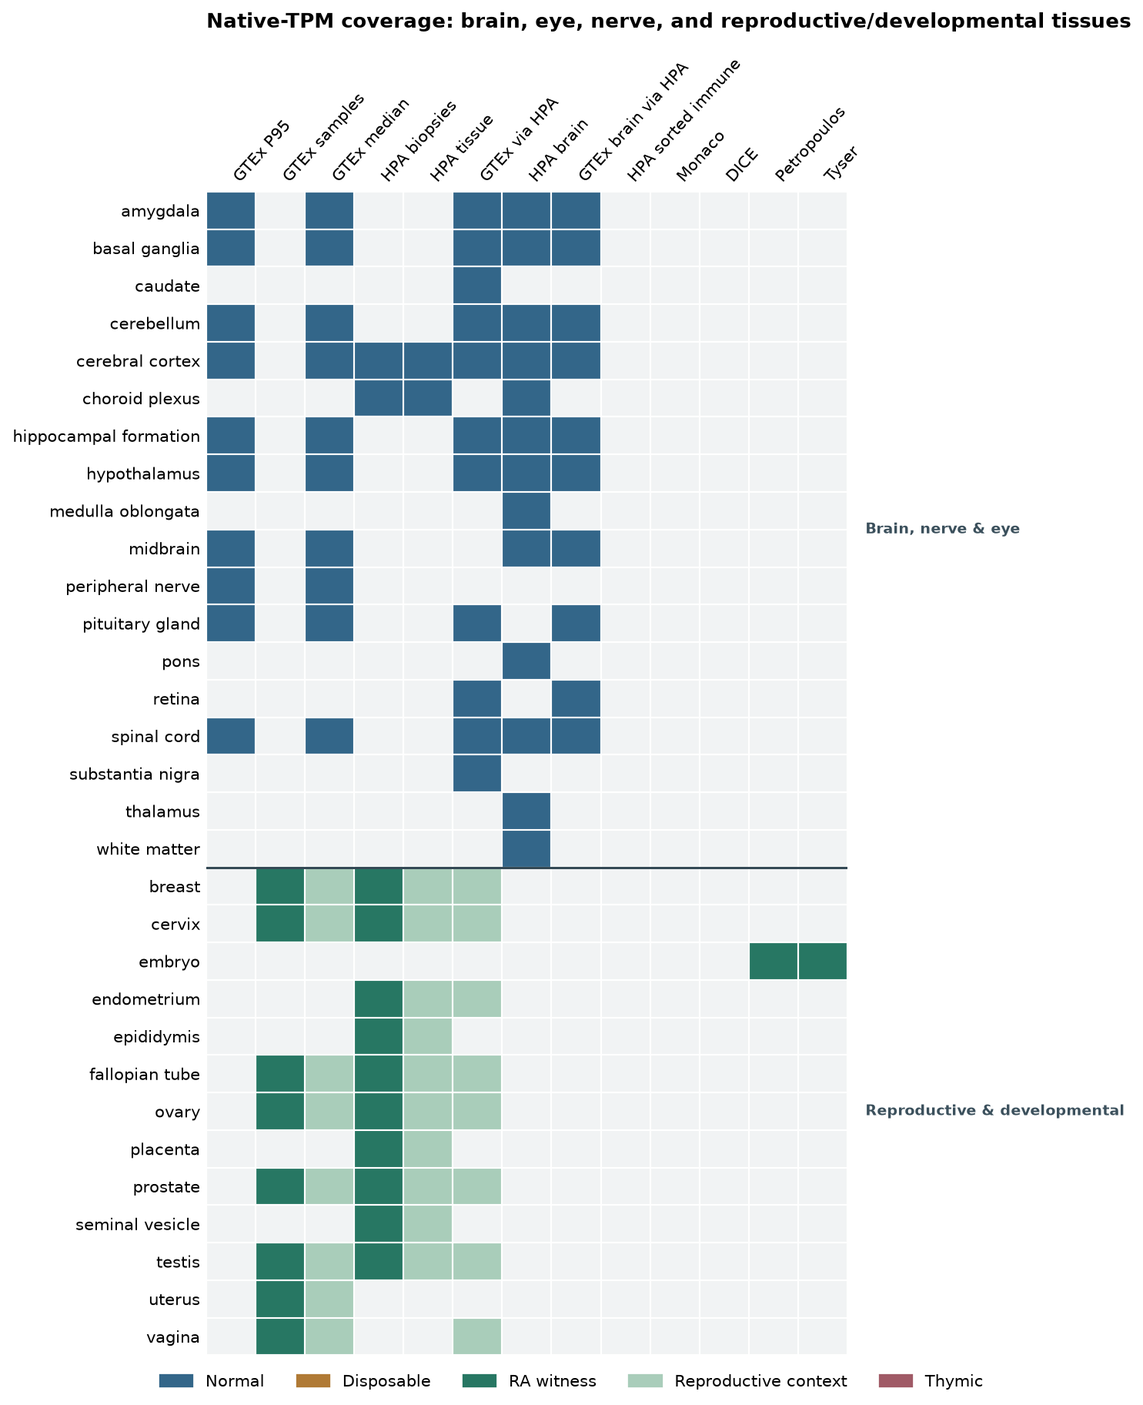
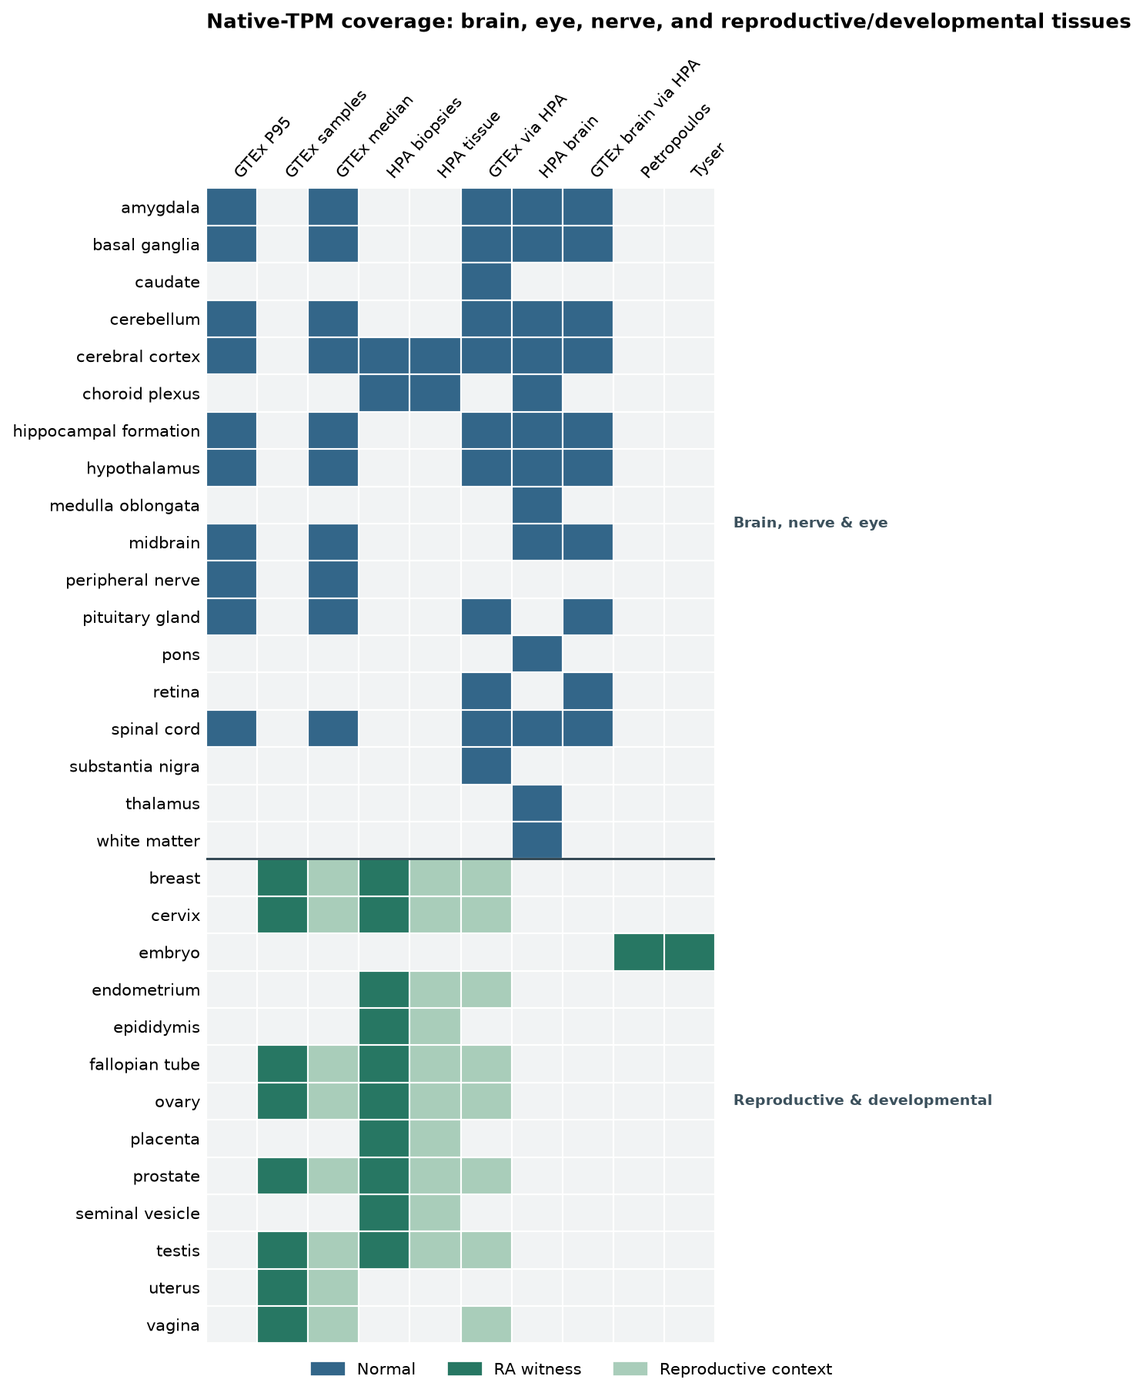
Tighten figure cropping, label enrichment y-axes, spell out Normal N/Disposable D, and drop empty split-heatmap columns

diff --git a/scripts/render_curation_summary.py b/scripts/render_curation_summary.py
@@ -617,7 +617,9 @@ def distributions(data, path):
     plt.close(fig)
 
 
-def _draw_enrichment_panel(ax, data, column, membership, title, color, callouts, floor=0.05):
+def _draw_enrichment_panel(
+    ax, data, column, membership, title, ylabel, color, callouts, floor=0.05
+):
     """Draw a single enrichment scatter plot against the shared non-thymic baseline."""
     d = data[data[column].notna()].copy()
     x = d[["normal_reference_tpm", "disposable_max_tpm"]].max(axis=1).clip(lower=floor)
@@ -680,8 +682,11 @@ def _draw_enrichment_panel(ax, data, column, membership, title, color, callouts,
     ax.set_yscale("log")
     ax.grid(True, which="major", color="#dce3e7", linewidth=0.6, alpha=0.7)
     ax.set_axisbelow(True)
-    ax.set_xlabel("Highest non-thymic, non-reproductive reference max(N, D) (TPM)", fontsize=10)
-    ax.set_ylabel("Highest supported expression (TPM)", fontsize=10)
+    ax.set_xlabel(
+        "Highest non-thymic, non-reproductive reference max(Normal N, Disposable D) (TPM)",
+        fontsize=9.8,
+    )
+    ax.set_ylabel(ylabel, fontsize=10)
     ax.set_title(
         f"{title}: {len(d):,} measured proteins",
         loc="left",
@@ -724,6 +729,7 @@ def tumor_normal(data, path):
             "tumor_max_tpm",
             "is_cancer_antigen",
             "Cancer enrichment (CA)",
+            "Peak tumor sample expression across 129 cohorts (TPM)",
             CANCER,
             cancer_callouts,
             path.parent / "cancer-enrichment.png",
@@ -732,22 +738,17 @@ def tumor_normal(data, path):
             "reproductive_supported_tpm",
             "is_reproductive_antigen",
             "Reproductive and developmental enrichment (RA)",
+            "Peak reproductive biopsy or embryo-lineage expression (TPM)",
             REPRODUCTIVE,
             repro_callouts,
             path.parent / "reproductive-enrichment.png",
         ),
     ]
     # Individual full-width figures for crisp readability in the whitepaper.
-    for column, membership, title, color, callouts, out_path in specs:
-        fig, ax = plt.subplots(figsize=(9.2, 6.2))
-        _draw_enrichment_panel(ax, data, column, membership, title, color, callouts, floor=floor)
-        fig.text(
-            0.01,
-            -0.02,
-            "Values below 0.05 TPM are clipped to the axis floor. Gold points above the dotted boundary clear the 10× rule but are held in Other:Review or Other:Unscreened tissue.",
-            ha="left",
-            fontsize=8.5,
-            color="#4e616b",
+    for column, membership, title, ylabel, color, callouts, out_path in specs:
+        fig, ax = plt.subplots(figsize=(8.8, 5.8))
+        _draw_enrichment_panel(
+            ax, data, column, membership, title, ylabel, color, callouts, floor=floor
         )
         fig.tight_layout()
         fig.savefig(out_path, dpi=160, bbox_inches="tight")
@@ -755,8 +756,12 @@ def tumor_normal(data, path):
 
     # Legacy combined side-by-side figure retained for summary.md.
     fig, axes = plt.subplots(1, 2, figsize=(14.2, 6.5), sharex=True, sharey=True)
-    for ax, (column, membership, title, color, callouts, _) in zip(axes, specs, strict=True):
-        _draw_enrichment_panel(ax, data, column, membership, title, color, callouts, floor=floor)
+    for ax, (column, membership, title, ylabel, color, callouts, _) in zip(
+        axes, specs, strict=True
+    ):
+        _draw_enrichment_panel(
+            ax, data, column, membership, title, ylabel, color, callouts, floor=floor
+        )
     fig.suptitle(
         "Shared 10× enrichment rule across cancer and reproductive compartments",
         fontsize=12.5,
@@ -1115,7 +1120,11 @@ def source_to_tiers_architecture(data, everything, stem_path):
 
     # Gate 2: Symmetric 10x enrichment (receives 842)
     gate_box(
-        2.75, 2.86, 5.30, 0.64, "2. Enrichment ≥ 10× healthy baseline  [H₀ = max(N, D, 1 TPM)]"
+        2.05,
+        2.86,
+        6.70,
+        0.64,
+        "2. Enrichment ≥ 10× healthy baseline  [H₀ = max(Normal N, Disposable D, 1 TPM)]",
     )
 
     # 4 mutually exclusive leaves summing to 842
@@ -1837,7 +1846,7 @@ def normal_evidence_layers(data, path):
     non_bulk = df.iloc[1:].copy().sort_values("beyond_bulk", ascending=True)
     y = np.arange(len(non_bulk))
 
-    fig, ax = plt.subplots(figsize=(9.4, 4.8))
+    fig, ax = plt.subplots(figsize=(8.6, 4.2))
     bars = ax.barh(y, non_bulk["beyond_bulk"], color=UNSAFE, height=0.62, alpha=0.88)
     max_v = max(non_bulk["beyond_bulk"].max(), 1)
     for bar, row in zip(bars, non_bulk.itertuples(), strict=True):
@@ -1845,33 +1854,24 @@ def normal_evidence_layers(data, path):
         ax.text(
             w + max_v * 0.02,
             bar.get_y() + bar.get_height() / 2,
-            f"+{row.beyond_bulk:,} missed by bulk RNA   ({row.total:,} flagged overall)",
+            f"+{row.beyond_bulk:,} missed by bulk RNA  ({row.total:,} total)",
             va="center",
             ha="left",
-            fontsize=8.8,
+            fontsize=9.0,
             color="#1f2933",
         )
-    ax.set_yticks(y, non_bulk["label"], fontsize=9.2)
-    ax.set_xlim(0, max_v * 1.92)
+    ax.set_yticks(y, non_bulk["label"], fontsize=9.3)
+    ax.set_xlim(0, max_v * 1.62)
     ax.set_xlabel(
         "Unsafe proteins flagged despite passing bulk normal-tissue RNA ceilings", fontsize=9.8
     )
     ax.set_title(
         "Why bulk RNA alone is insufficient: Unsafe proteins caught by complementary assays",
         loc="left",
-        fontsize=11.2,
+        fontsize=11.0,
         fontweight="bold",
         color="#102a43",
         pad=10,
-    )
-    ax.text(
-        0.0,
-        -0.19,
-        f"Bulk tissue RNA alone flags {df.iloc[0]['total']:,} Unsafe proteins; the six complementary modalities above catch an additional "
-        f"{int((seen & ~bulk_mask).sum()):,} Unsafe proteins (bars overlap where multiple non-bulk assays agree).",
-        transform=ax.transAxes,
-        fontsize=8.4,
-        color="#486581",
     )
     ax.grid(axis="x", color="#e3e8eb", linewidth=0.6)
     ax.set_axisbelow(True)
@@ -2181,14 +2181,6 @@ def sex_restricted_antigens(data, fig_counts_path, fig_scatter_path, csv_path):
         loc="upper right",
     )
     ax2.spines[["top", "right"]].set_visible(False)
-    fig2.text(
-        0.01,
-        -0.02,
-        "Dotted lines mark the 4 TPM protected-organ screening threshold. Points in the bottom-right colored ochre (e.g., TGM4, SEMG2) have <4 TPM in female sex organs but ≥4 TPM in resting breast.",
-        ha="left",
-        fontsize=8.3,
-        color="#486581",
-    )
     fig2.tight_layout()
     fig2.savefig(fig_scatter_path, dpi=160, bbox_inches="tight")
     plt.close(fig2)
@@ -2371,14 +2363,14 @@ def decision_tree(data, stem_path):
     j_y = 1.48
     arrow(scx, prev_y, scx, j_y + 0.66)
     box(
-        1.15,
+        0.75,
         j_y,
-        8.90,
+        9.70,
         0.62,
-        f"5. Shared-eligible ({n_elig:,}):  Tumor ≥ 10× H₀  and/or  Reproductive/embryo ≥ 10× H₀   [H₀ = max(N, D, 1 TPM)]",
+        f"5. Shared-eligible ({n_elig:,}):  Tumor ≥ 10× H₀  and/or  Reproductive/embryo ≥ 10× H₀   [H₀ = max(Normal N, Disposable D, 1 TPM)]",
         fc="#edf4f7",
         ec="#486581",
-        fs=8.9,
+        fs=8.7,
     )
 
     leaves = [

diff --git a/scripts/render_normal_rna_sources.py b/scripts/render_normal_rna_sources.py
@@ -352,17 +352,24 @@ def plot_grid(data, keys, filename, *, title="", split_stems=None):
 
     if split_stems is not None:
         for (split_name, split_title), grp_list in zip(split_stems, panel_specs, strict=True):
-            n_rows = sum(len(m) for _, m in grp_list)
+            row_order = [t for _, members in grp_list for t in members]
+            panel_keys = [k for k in keys if grid.loc[row_order, k].gt(0).any()]
+            panel_used = sorted(
+                int(v)
+                for v in np.unique(grid.loc[row_order, panel_keys].to_numpy(dtype=int))
+                if v > 0
+            )
+            n_rows = len(row_order)
             fig_s, ax_s = plt.subplots(
-                figsize=(max(8.8, len(keys) * 0.68), 2.6 + 0.27 * n_rows),
+                figsize=(max(7.6, len(panel_keys) * 0.78), 2.5 + 0.27 * n_rows),
                 layout="constrained",
             )
-            _draw_coverage_panel(ax_s, grid, grp_list, keys)
+            _draw_coverage_panel(ax_s, grid[panel_keys], grp_list, panel_keys)
             ax_s.set_title(split_title, loc="left", fontsize=11.5, fontweight="bold", pad=16)
             fig_s.legend(
-                handles=[Patch(color=COLORS[c], label=ROLES[c - 1]) for c in used],
+                handles=[Patch(color=COLORS[c], label=ROLES[c - 1]) for c in panel_used],
                 loc="outside lower center",
-                ncol=len(used),
+                ncol=len(panel_used),
                 frameon=False,
                 fontsize=9.2,
             )

diff --git a/scripts/render_antigen_whitepaper.py b/scripts/render_antigen_whitepaper.py
@@ -430,6 +430,11 @@ def build():
     pregnant_profile = profiles.loc["female-patient (pregnant)"]
     sex_table = pd.read_csv(BUILD / "summary/sex-restricted-antigens.csv")
     sex_cta = sex_table[sex_table["is_cta"].astype(bool)]
+    unsafe_reasons = data.Unsafe_reasons.fillna("").map(
+        lambda v: set(v.split(" | ")) if v else set()
+    )
+    bulk_unsafe = unsafe_reasons.map(lambda s: "Normal bulk" in s)
+    any_unsafe = data.category.eq("Unsafe")
     headline = table(
         ["Stage or set", "Protein groups", "Notes"],
         [
@@ -492,6 +497,8 @@ def build():
         "published_outside": f"{int((~ca & ~ra & published).sum()):,}",
         "union": f"{int((ca | ra).sum()):,}",
         "unsafe_n": f"{int(data.category.eq('Unsafe').sum()):,}",
+        "bulk_unsafe_n": f"{int(bulk_unsafe.sum()):,}",
+        "non_bulk_added_n": f"{int((any_unsafe & ~bulk_unsafe).sum()):,}",
         "other_n": f"{int(data.category.eq('Other').sum()):,}",
         "testis_protected_cta": f"{int(testis_profile.CTA):,}",
         "pregnant_retained": f"{int(pregnant_profile.CTA):,}",

diff --git a/scripts/cta_evidence_assets/antigen-whitepaper.md b/scripts/cta_evidence_assets/antigen-whitepaper.md
@@ -18,7 +18,7 @@ Every protein group lands in one of five mutually exclusive categories:
 
 ![Antigen classification overview](audits/target-selection-20261110/rebuild/summary/classification-overview.png)
 
-*Figure 1.* Proteome partition across the five categories. Biological membership (<span class="cat cat-ca">CA</span>, <span class="cat cat-ra">RA</span>, <span class="cat cat-cta">CTA</span>) is independent of patient anatomy; patient-specific organ protection applies downstream without relabeling biological categories.
+*Figure 1.* Proteome partition across the five categories. In `H₀ = max(Normal N, Disposable D, 1 TPM)`, `N` is the protein's highest native TPM across vital, protected, and manageable healthy adult somatic organs and sorted immune subsets, and `D` is its maximum across non-thymic Disposable organs (appendix, gallbladder, tonsil). Biological membership (<span class="cat cat-ca">CA</span>, <span class="cat cat-ra">RA</span>, <span class="cat cat-cta">CTA</span>) is independent of patient anatomy; patient-specific organ protection applies downstream without relabeling biological categories.
 
 $headline
 
@@ -38,7 +38,7 @@ No single assay catches every normal-tissue risk. Each modality in OncoRef cover
 
 ![Unsafe proteins caught by complementary assays beyond bulk tissue RNA](audits/target-selection-20261110/rebuild/summary/normal-evidence-layers.png)
 
-*Figure 2.* `Unsafe` proteins passing bulk tissue RNA ceilings that are caught by single-cell clusters, sorted immune panels, normal IHC, donor-resolved rare-cell UMI counts, curated literature, or adult cornea scRNA.
+*Figure 2.* `Unsafe` proteins passing bulk tissue RNA ceilings that are caught by single-cell clusters, sorted immune panels, normal IHC, donor-resolved rare-cell UMI counts, curated literature, or adult cornea scRNA. Bulk tissue RNA alone flags **$bulk_unsafe_n** `Unsafe` proteins; the six complementary assays add **$non_bulk_added_n** more (bars overlap where multiple non-bulk assays agree).
 
 ## 1. Screening decision tree, attrition, and the 10× enrichment rule
 
@@ -56,11 +56,11 @@ Both enrichment routes apply the same threshold—**≥$fold×** above **H₀ = 
 
 ![Cancer enrichment relative to the healthy adult reference](audits/target-selection-20261110/rebuild/summary/cancer-enrichment.png)
 
-*Figure 5.* Cancer enrichment (<span class="cat cat-ca">CA</span>) across all **$assessed** protein groups with native-TPM comparisons.
+*Figure 5.* Cancer enrichment (<span class="cat cat-ca">CA</span>) across all **$assessed** protein groups with native-TPM comparisons (values below 0.05 TPM clipped to the axis floor).
 
 ![Reproductive and developmental enrichment relative to the healthy adult reference](audits/target-selection-20261110/rebuild/summary/reproductive-enrichment.png)
 
-*Figure 6.* Reproductive and developmental enrichment (<span class="cat cat-ra">RA</span>) against the identical non-thymic healthy adult baseline.
+*Figure 6.* Reproductive and developmental enrichment (<span class="cat cat-ra">RA</span>) against the identical non-thymic healthy adult baseline (values below 0.05 TPM clipped to the axis floor).
 
 Exclusive category counts across the entire proteome:
 
@@ -156,7 +156,7 @@ Biological <span class="cat cat-cta">CTA</span>, <span class="cat cat-ca">CA</sp
 Because male and female reproductive organs are anatomically distinct, an antigen restricted to one sex's reproductive tract has no normal target organ in non-pregnant patients of the opposite sex. Oncology has no standard shorthand for this cross-sex distinction, so OncoRef partitions Reproductive Antigens (<span class="cat cat-ra">RA</span>) and their cancer intersection (<span class="cat cat-cta">CTA</span>) into four explicit sex-restriction classes under strict protection of all opposite-sex adult organs (including resting and lactating breast):
 
 - **Male-Restricted (`MRA`, `$mra_n` RAs · `CTA-M`, `$cta_m_n` CTAs — female-safe):** expressed in male reproductive organs (`testis`, `epididymis`, `prostate`, `seminal vesicle`) and cleanly clearing every female adult reproductive and mammary organ (`XAGE1A/B`, `SPANXA1/2`, `MAGEA4`, `NY-ESO-1`, `VCY/1B`, plus male-accessory/prostate targets such as `PRR23D1/2`, `SPAG11A`, `POTEH`, `EDDM3B`). Relaxing resting-breast protection widens `CTA-M` to **$cta_m_sex_only_n** CTAs, bringing in high-peak prostate and seminal-vesicle genes (`TGM4`, `SEMG2`) that show resting-breast RNA in GTEx.
-- **Embryo / Placenta-Only (`ERA`, `$era_n` RAs · `CTA-E`, `$cta_e_n` CTAs — adult-absent in both sexes):** cleanly clear both all adult male and all non-pregnant adult female organs (`TBXT`, `MBD3L2`, `SSU72L2`, `TRIM48`, `TRIM43B`).
+- **Embryo / Placenta-Only (`ERA`, `$era_n` RAs · `CTA-E`, `$cta_e_n` CTAs — adult-absent in both sexes):** cleanly clear both all adult male and all non-pregnant adult female organs (`TBXT`, `MBD3L2`, `SSU72L2`, `TRIM48`, `TRIM43B`). Although **155** RAs (**130** CTAs) reach ≥10× in embryo or placenta, most (`64` RAs / `57` CTAs, including `MAGEA4`, `VCY/1B`, `PAGE2`, and `GAGE1`) remain active in adult testis and therefore classify as `MRA`/`CTA-M`, while another `41` RAs (`33` CTAs) remain active in both male and female adult reproductive tissues; `ERA` retains only developmental factors silenced across every adult gonad and reproductive organ.
 - **Female-Restricted (`FRA`, `$fra_n` RAs · `CTA-F`, `$cta_f_n` CTAs — male-safe):** confined to female reproductive compartments (`ovary`, tract, `placenta`/`lactating_breast`) while cleanly clearing all male adult organs (`ERVV-1`, `ZP4`).
 - **Shared Male & Female (`SRA`, `$sra_n` RAs · `CTA-MF`, `$cta_mf_n` CTAs):** expressed in adult reproductive or mammary compartments of both sexes (`PRAME`, `LALBA`, `SCGB1D4`).
 
@@ -168,7 +168,7 @@ The asymmetry is striking: **$cta_female_safe_n** of **$cta** CTAs (`CTA-M + CTA
 
 ![Male versus female reproductive-organ exposure across all CTAs](audits/target-selection-20261110/rebuild/summary/sex-restricted-landscape.png)
 
-*Figure 14.* Maximum male versus female sex-organ RNA across all **$cta** CTAs. Points in the lower-right (`CTA-M`, blue) are anatomically absent in non-pregnant women; points in the lower-left (`CTA-E`, green) are absent in both adult sexes; points in the upper-left (`CTA-F`, plum) are anatomically absent in men.
+*Figure 14.* Maximum male versus female sex-organ RNA across all **$cta** CTAs (dotted lines mark the 4 TPM protected-organ screening threshold). Points in the lower-right (`CTA-M`, blue) are anatomically absent in non-pregnant women; ochre points in the lower-right (`TGM4`, `SEMG2`) have <4 TPM in female sex organs but ≥4 TPM in resting breast; points in the lower-left (`CTA-E`, green) are absent in both adult sexes; points in the upper-left (`CTA-F`, plum) are anatomically absent in men.
 
 ## 5. Methods: protein grouping, sources, and thresholds
 

diff --git a/docs/antigen-whitepaper.md b/docs/antigen-whitepaper.md
@@ -18,7 +18,7 @@ Every protein group lands in one of five mutually exclusive categories:
 
 ![Antigen classification overview](audits/target-selection-20261110/rebuild/summary/classification-overview.png)
 
-*Figure 1.* Proteome partition across the five categories. Biological membership (<span class="cat cat-ca">CA</span>, <span class="cat cat-ra">RA</span>, <span class="cat cat-cta">CTA</span>) is independent of patient anatomy; patient-specific organ protection applies downstream without relabeling biological categories.
+*Figure 1.* Proteome partition across the five categories. In `H₀ = max(Normal N, Disposable D, 1 TPM)`, `N` is the protein's highest native TPM across vital, protected, and manageable healthy adult somatic organs and sorted immune subsets, and `D` is its maximum across non-thymic Disposable organs (appendix, gallbladder, tonsil). Biological membership (<span class="cat cat-ca">CA</span>, <span class="cat cat-ra">RA</span>, <span class="cat cat-cta">CTA</span>) is independent of patient anatomy; patient-specific organ protection applies downstream without relabeling biological categories.
 
 | Stage or set | Protein groups | Notes |
 | --- | --- | --- |
@@ -46,7 +46,7 @@ No single assay catches every normal-tissue risk. Each modality in OncoRef cover
 
 ![Unsafe proteins caught by complementary assays beyond bulk tissue RNA](audits/target-selection-20261110/rebuild/summary/normal-evidence-layers.png)
 
-*Figure 2.* `Unsafe` proteins passing bulk tissue RNA ceilings that are caught by single-cell clusters, sorted immune panels, normal IHC, donor-resolved rare-cell UMI counts, curated literature, or adult cornea scRNA.
+*Figure 2.* `Unsafe` proteins passing bulk tissue RNA ceilings that are caught by single-cell clusters, sorted immune panels, normal IHC, donor-resolved rare-cell UMI counts, curated literature, or adult cornea scRNA. Bulk tissue RNA alone flags **17,507** `Unsafe` proteins; the six complementary assays add **740** more (bars overlap where multiple non-bulk assays agree).
 
 ## 1. Screening decision tree, attrition, and the 10× enrichment rule
 
@@ -64,11 +64,11 @@ Both enrichment routes apply the same threshold—**≥10×** above **H₀ = max
 
 ![Cancer enrichment relative to the healthy adult reference](audits/target-selection-20261110/rebuild/summary/cancer-enrichment.png)
 
-*Figure 5.* Cancer enrichment (<span class="cat cat-ca">CA</span>) across all **923** protein groups with native-TPM comparisons.
+*Figure 5.* Cancer enrichment (<span class="cat cat-ca">CA</span>) across all **923** protein groups with native-TPM comparisons (values below 0.05 TPM clipped to the axis floor).
 
 ![Reproductive and developmental enrichment relative to the healthy adult reference](audits/target-selection-20261110/rebuild/summary/reproductive-enrichment.png)
 
-*Figure 6.* Reproductive and developmental enrichment (<span class="cat cat-ra">RA</span>) against the identical non-thymic healthy adult baseline.
+*Figure 6.* Reproductive and developmental enrichment (<span class="cat cat-ra">RA</span>) against the identical non-thymic healthy adult baseline (values below 0.05 TPM clipped to the axis floor).
 
 Exclusive category counts across the entire proteome:
 
@@ -273,7 +273,7 @@ Biological <span class="cat cat-cta">CTA</span>, <span class="cat cat-ca">CA</sp
 Because male and female reproductive organs are anatomically distinct, an antigen restricted to one sex's reproductive tract has no normal target organ in non-pregnant patients of the opposite sex. Oncology has no standard shorthand for this cross-sex distinction, so OncoRef partitions Reproductive Antigens (<span class="cat cat-ra">RA</span>) and their cancer intersection (<span class="cat cat-cta">CTA</span>) into four explicit sex-restriction classes under strict protection of all opposite-sex adult organs (including resting and lactating breast):
 
 - **Male-Restricted (`MRA`, `207` RAs · `CTA-M`, `136` CTAs — female-safe):** expressed in male reproductive organs (`testis`, `epididymis`, `prostate`, `seminal vesicle`) and cleanly clearing every female adult reproductive and mammary organ (`XAGE1A/B`, `SPANXA1/2`, `MAGEA4`, `NY-ESO-1`, `VCY/1B`, plus male-accessory/prostate targets such as `PRR23D1/2`, `SPAG11A`, `POTEH`, `EDDM3B`). Relaxing resting-breast protection widens `CTA-M` to **213** CTAs, bringing in high-peak prostate and seminal-vesicle genes (`TGM4`, `SEMG2`) that show resting-breast RNA in GTEx.
-- **Embryo / Placenta-Only (`ERA`, `45` RAs · `CTA-E`, `38` CTAs — adult-absent in both sexes):** cleanly clear both all adult male and all non-pregnant adult female organs (`TBXT`, `MBD3L2`, `SSU72L2`, `TRIM48`, `TRIM43B`).
+- **Embryo / Placenta-Only (`ERA`, `45` RAs · `CTA-E`, `38` CTAs — adult-absent in both sexes):** cleanly clear both all adult male and all non-pregnant adult female organs (`TBXT`, `MBD3L2`, `SSU72L2`, `TRIM48`, `TRIM43B`). Although **155** RAs (**130** CTAs) reach ≥10× in embryo or placenta, most (`64` RAs / `57` CTAs, including `MAGEA4`, `VCY/1B`, `PAGE2`, and `GAGE1`) remain active in adult testis and therefore classify as `MRA`/`CTA-M`, while another `41` RAs (`33` CTAs) remain active in both male and female adult reproductive tissues; `ERA` retains only developmental factors silenced across every adult gonad and reproductive organ.
 - **Female-Restricted (`FRA`, `6` RAs · `CTA-F`, `2` CTAs — male-safe):** confined to female reproductive compartments (`ovary`, tract, `placenta`/`lactating_breast`) while cleanly clearing all male adult organs (`ERVV-1`, `ZP4`).
 - **Shared Male & Female (`SRA`, `197` RAs · `CTA-MF`, `151` CTAs):** expressed in adult reproductive or mammary compartments of both sexes (`PRAME`, `LALBA`, `SCGB1D4`).
 
@@ -285,7 +285,7 @@ The asymmetry is striking: **174** of **327** CTAs (`CTA-M + CTA-E`) clear every
 
 ![Male versus female reproductive-organ exposure across all CTAs](audits/target-selection-20261110/rebuild/summary/sex-restricted-landscape.png)
 
-*Figure 14.* Maximum male versus female sex-organ RNA across all **327** CTAs. Points in the lower-right (`CTA-M`, blue) are anatomically absent in non-pregnant women; points in the lower-left (`CTA-E`, green) are absent in both adult sexes; points in the upper-left (`CTA-F`, plum) are anatomically absent in men.
+*Figure 14.* Maximum male versus female sex-organ RNA across all **327** CTAs (dotted lines mark the 4 TPM protected-organ screening threshold). Points in the lower-right (`CTA-M`, blue) are anatomically absent in non-pregnant women; ochre points in the lower-right (`TGM4`, `SEMG2`) have <4 TPM in female sex organs but ≥4 TPM in resting breast; points in the lower-left (`CTA-E`, green) are absent in both adult sexes; points in the upper-left (`CTA-F`, plum) are anatomically absent in men.
 
 ## 5. Methods: protein grouping, sources, and thresholds
 
